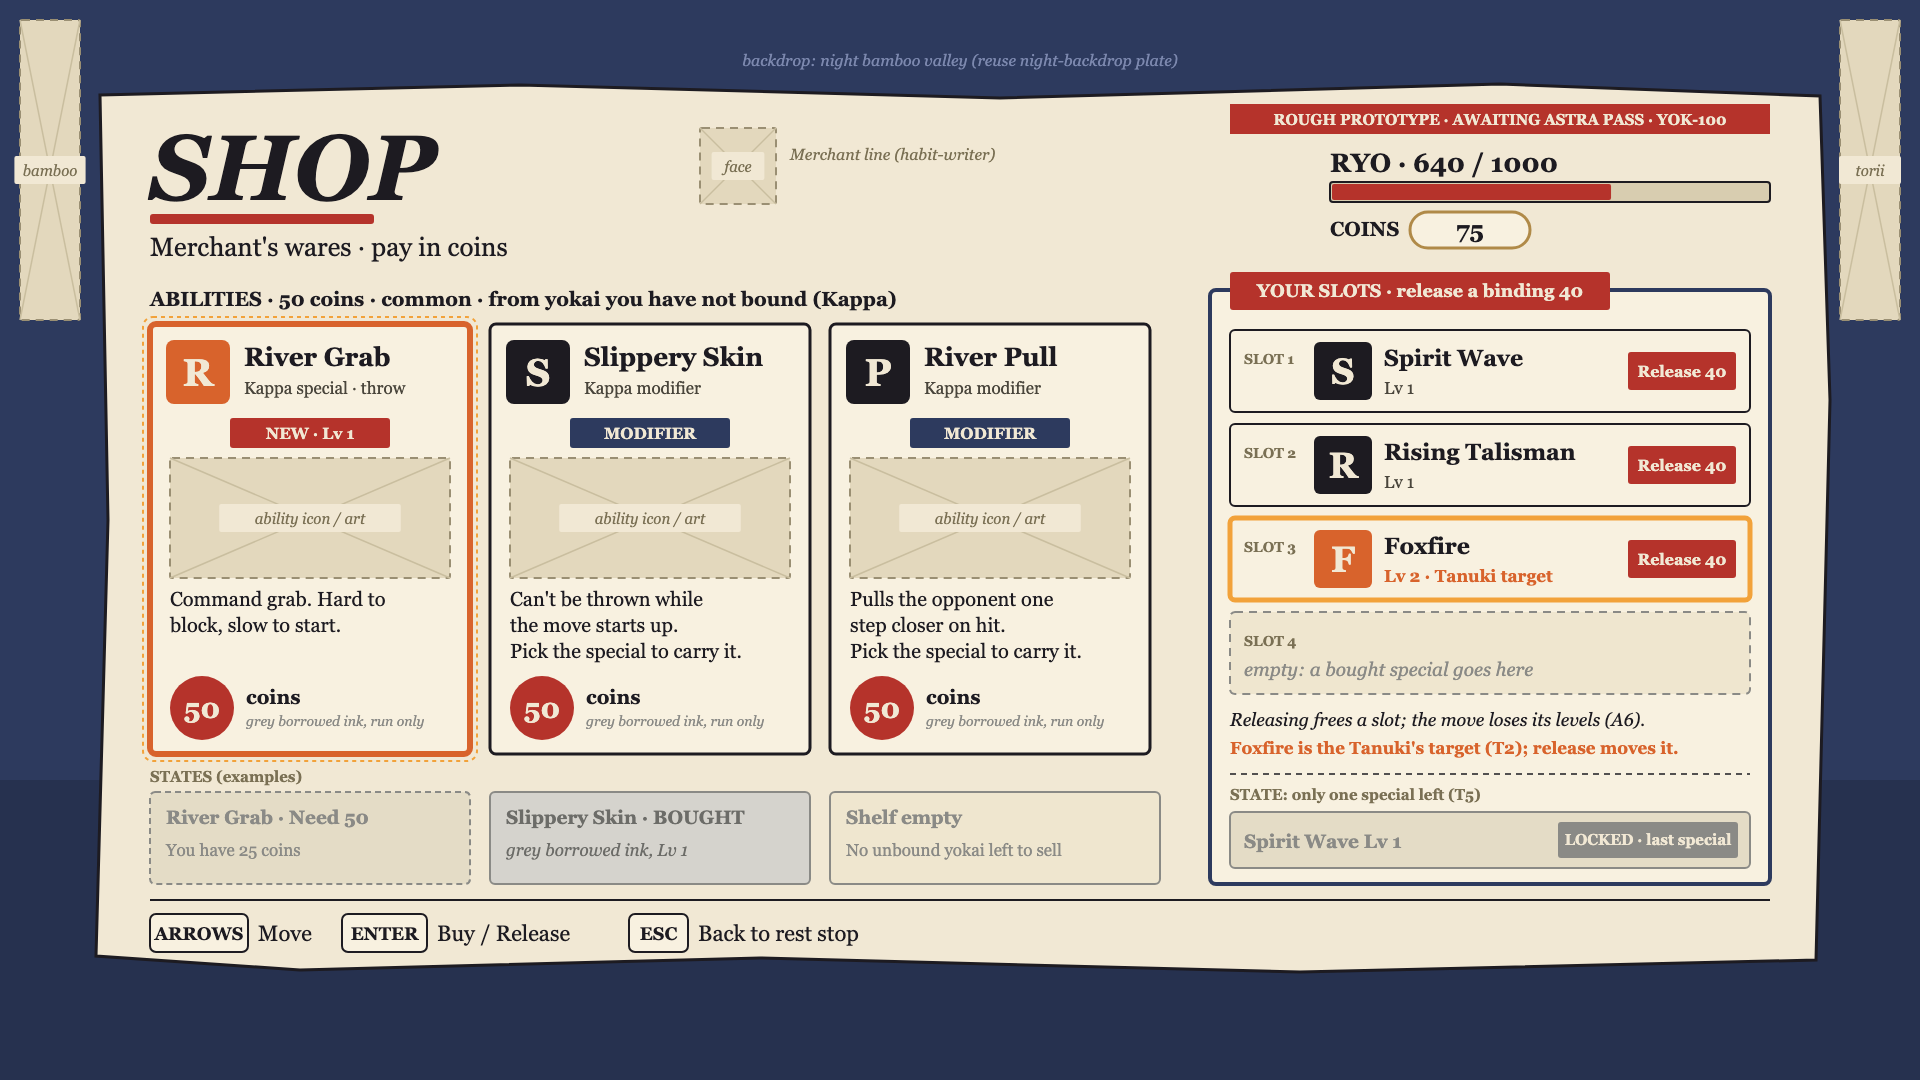
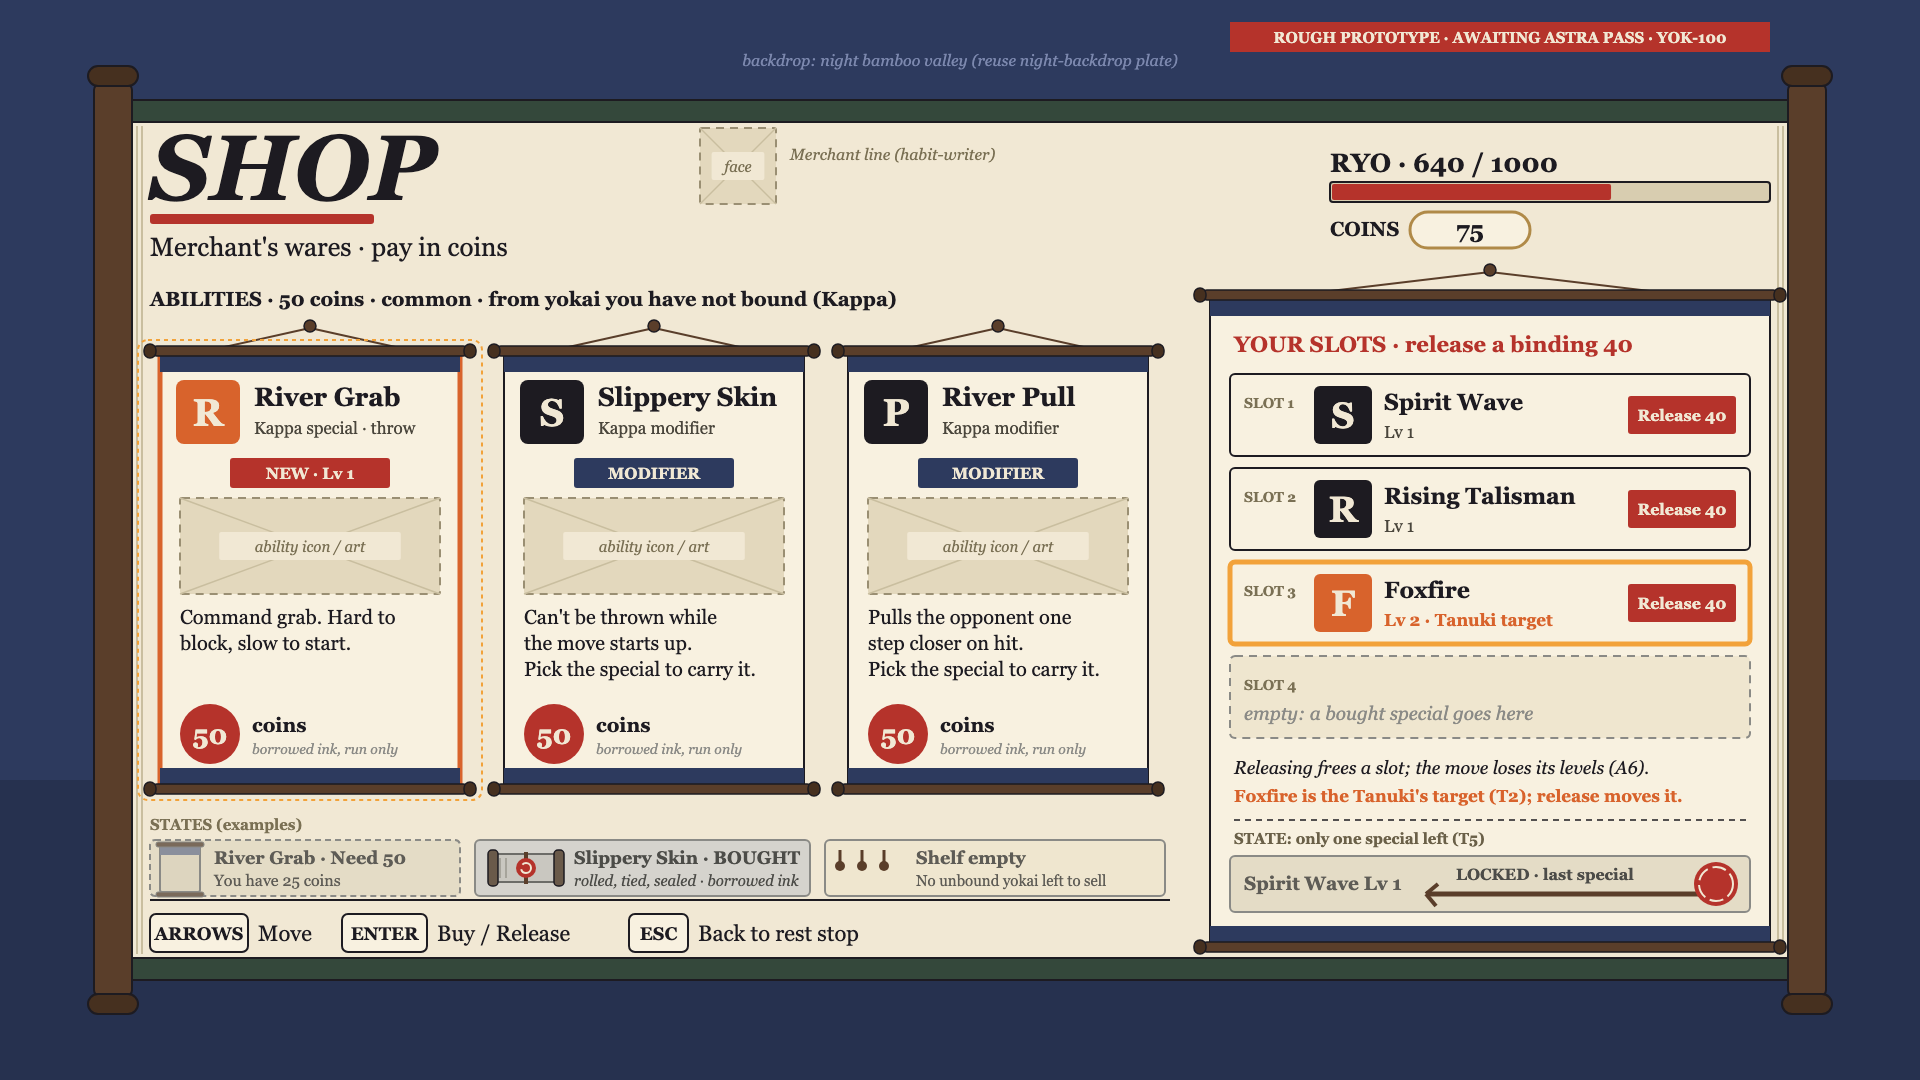
YOK-100-rest-stop-mockups: lean rest-stop and shop mockups into the scroll theme

diff --git a/docs/design/screens/rough/README.md b/docs/design/screens/rough/README.md
@@ -111,3 +111,29 @@ Bought abilities render grey (R6 "borrowed ink") and are never offered as carry-
 11. **Heal at full health.** Block the option, allow it with "+0", or hide it?
 12. **Elder twist reminder (Y3).** Not placed here since it is a pre-fight element. Say so if the rest stop should preview the next node's twist.
 13. **Merchant portrait.** Merchant is the Tanuki in disguise (S3). The portrait box is for the human guise only; the Tanuki is never shown on these screens.
+
+
+## Scroll theme (revision 2)
+
+Designer feedback: lean into the scroll theme. This is framing only; the element tables, numbers, states and questions above are unchanged. Where the text above says "torn rice-paper sheet", read the scroll forms below.
+
+Vocabulary, drawn as flat shapes (shared with the map and twist-card mockups):
+- Roller rods: wooden rod darker than the paper, rounded knobs sticking out past the paper at each end; a few offset paper-edge lines beside the side rods show the rolled part.
+- Mounting: indigo (hanging scrolls) or pine (the big sheet) cloth bands along top and bottom, paper inset.
+- Hanging cord: thin cord from a peg at the top centre of each hanging scroll.
+- Tie cord and seal: a red seal stamp marks the Tanuki forecast, the bought state and the locked last special; a rolled, tied scroll means bought.
+
+Changes:
+- Rest stop (both variants): the sheet is now an unrolled handscroll (rods left and right, pine cloth top and bottom). Free heal / Rest and Browse the shop / Training trial are small hanging scrolls on pegs, stacked as before, the selected one keeping its persimmon frame and foxfire glow. The Tanuki forecast is its own hanging scroll with a red seal; still text and move icon only. Portrait box, line box, health, coins and footer are unchanged. The ROUGH strip moved above the scroll so it does not sit on the paper.
+- Merchant shop: the three ability cards hang from pegs. "Your slots" is one tall hanging scroll with the four entries. The example-states strip shows cannot afford as a dimmed hanging scroll, bought as a rolled scroll tied with a cord and seal, and shelf empty as bare pegs. The T5 lock is a cord tied across the entry with a red seal instead of a grey lozenge.
+
+Judgement calls (redirect any):
+- Cards hang from pegs on the sheet rather than lying flat; the sheet itself is fully unrolled (no rolled portion), since all content must be readable at once.
+- Option cards stay stacked, not side by side, to keep text widths. The shop cards lost 12 px of width (312 to 300) so rod knobs do not collide; text sizes are unchanged or larger and nothing wraps worse.
+- The footer rule and key chips now stop short of the forecast / slots scroll.
+
+Left plain on purpose: the portrait and line boxes, health bar, coin chip, key chips and the dashed art placeholders (decoration behind text would hurt legibility); the slot entries inside the slots scroll stay flat paper rows.
+
+New questions:
+1. In the real shelf, should a bought card be rolled up in place (hiding its text) or stay open, grey, with a seal? Drawn as rolled, tied and sealed in the states strip only.
+2. Should the main rest-stop sheet animate unrolling on entry? Not drawn.
